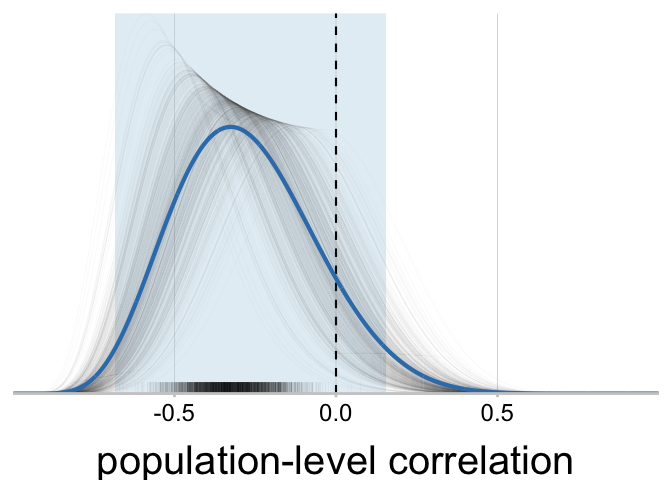
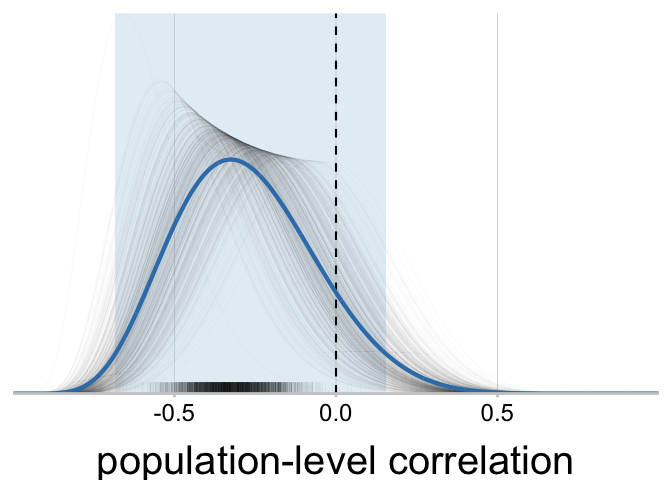
updated development status

Changed region(s): [[0.0938, 0.125, 0.6875, 0.8125]]

diff --git a/README.md b/README.md
@@ -79,16 +79,16 @@ summary(caution_striatum_cor, rope_range = c(-0.1, 0.1))
 #> <summary.plausible_cor object>
 #>  Parameter: caution_effect_speed
 #>  Covariate: striatum
-#>  Method: pearson
+#>  Correlation method: pearson
 #>  Alternative hypothesis: two.sided
-#>  ROPE: [-0.1, 0.1]
+#>  ROPE bounds: -0.1, 0.1
 #> 
 #> Summary of plausible correlation estimates:
 #> # A tibble: 2 × 6
 #>   type         mean  lower  upper p_dir p_rope
 #>   <fct>       <dbl>  <dbl>  <dbl> <dbl>  <dbl>
-#> 1 sample     -0.326 -0.510 -0.136 0.999 0.0107
-#> 2 population -0.277 -0.683  0.155 0.887 0.157
+#> 1 sample     -0.326 -0.510 -0.136 0.999  0    
+#> 2 population -0.277 -0.683  0.155 0.887  0.164
 
 # illustrate the posterior distribution at the population level
 plot(caution_striatum_cor)
@@ -98,11 +98,15 @@ plot(caution_striatum_cor)
 
 ## Development status
 
-This package is under **active development**. Some functions are
-experimental and may change drastically or be removed without notice. If
-you use this package, please be prepared to update your code as the
-package develops. Feedback is very welcome via [GitHub
-issues](https://github.com/frankhezemans/plausiblecor/issues).
+This package is under active development, but the core functionality is
+in place and relatively stable.
+
+If you encounter any bugs or have suggestions for improvements or
+extensions, please feel free to [open an
+issue](https://github.com/frankhezemans/plausiblecor/issues).
+Contributions via [pull
+requests](https://github.com/frankhezemans/plausiblecor/pulls) are also
+very welcome.
 
 ## References
 
